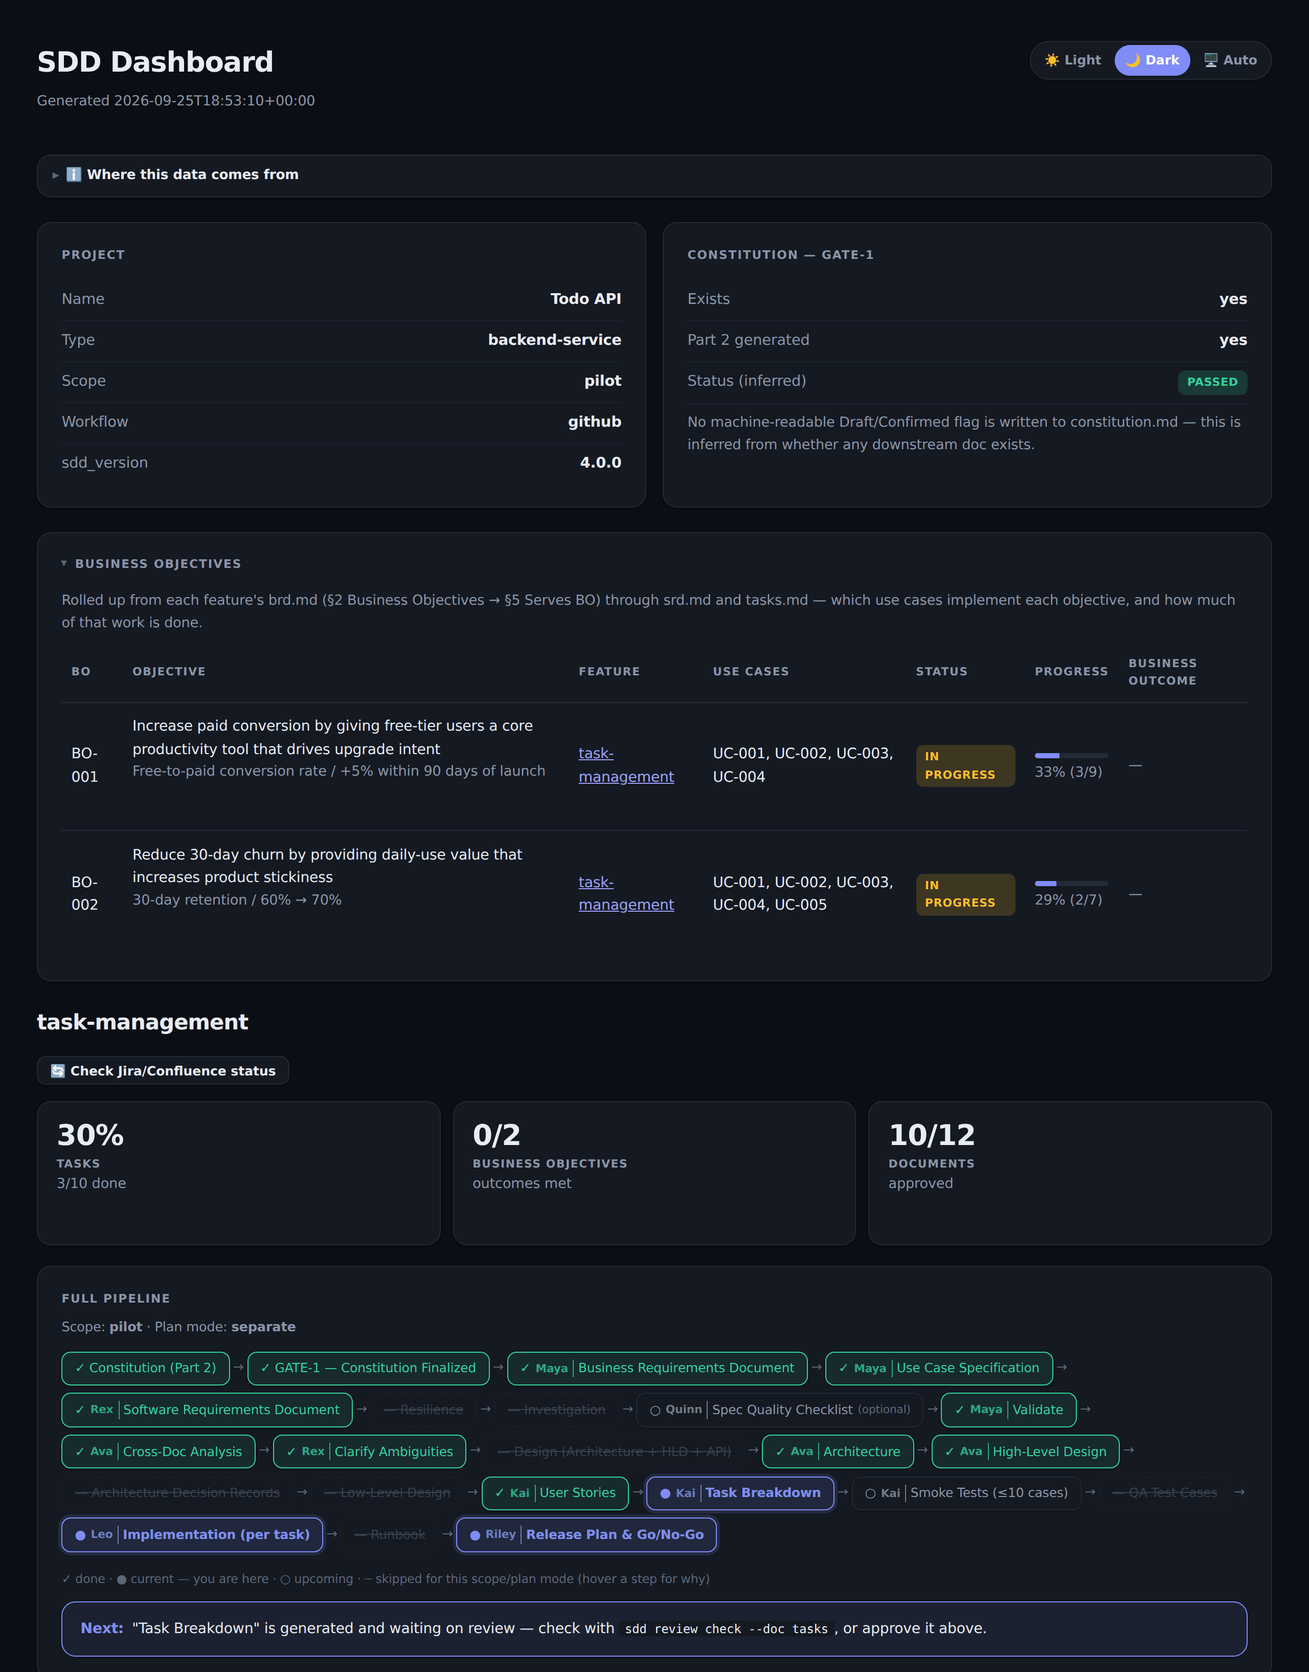
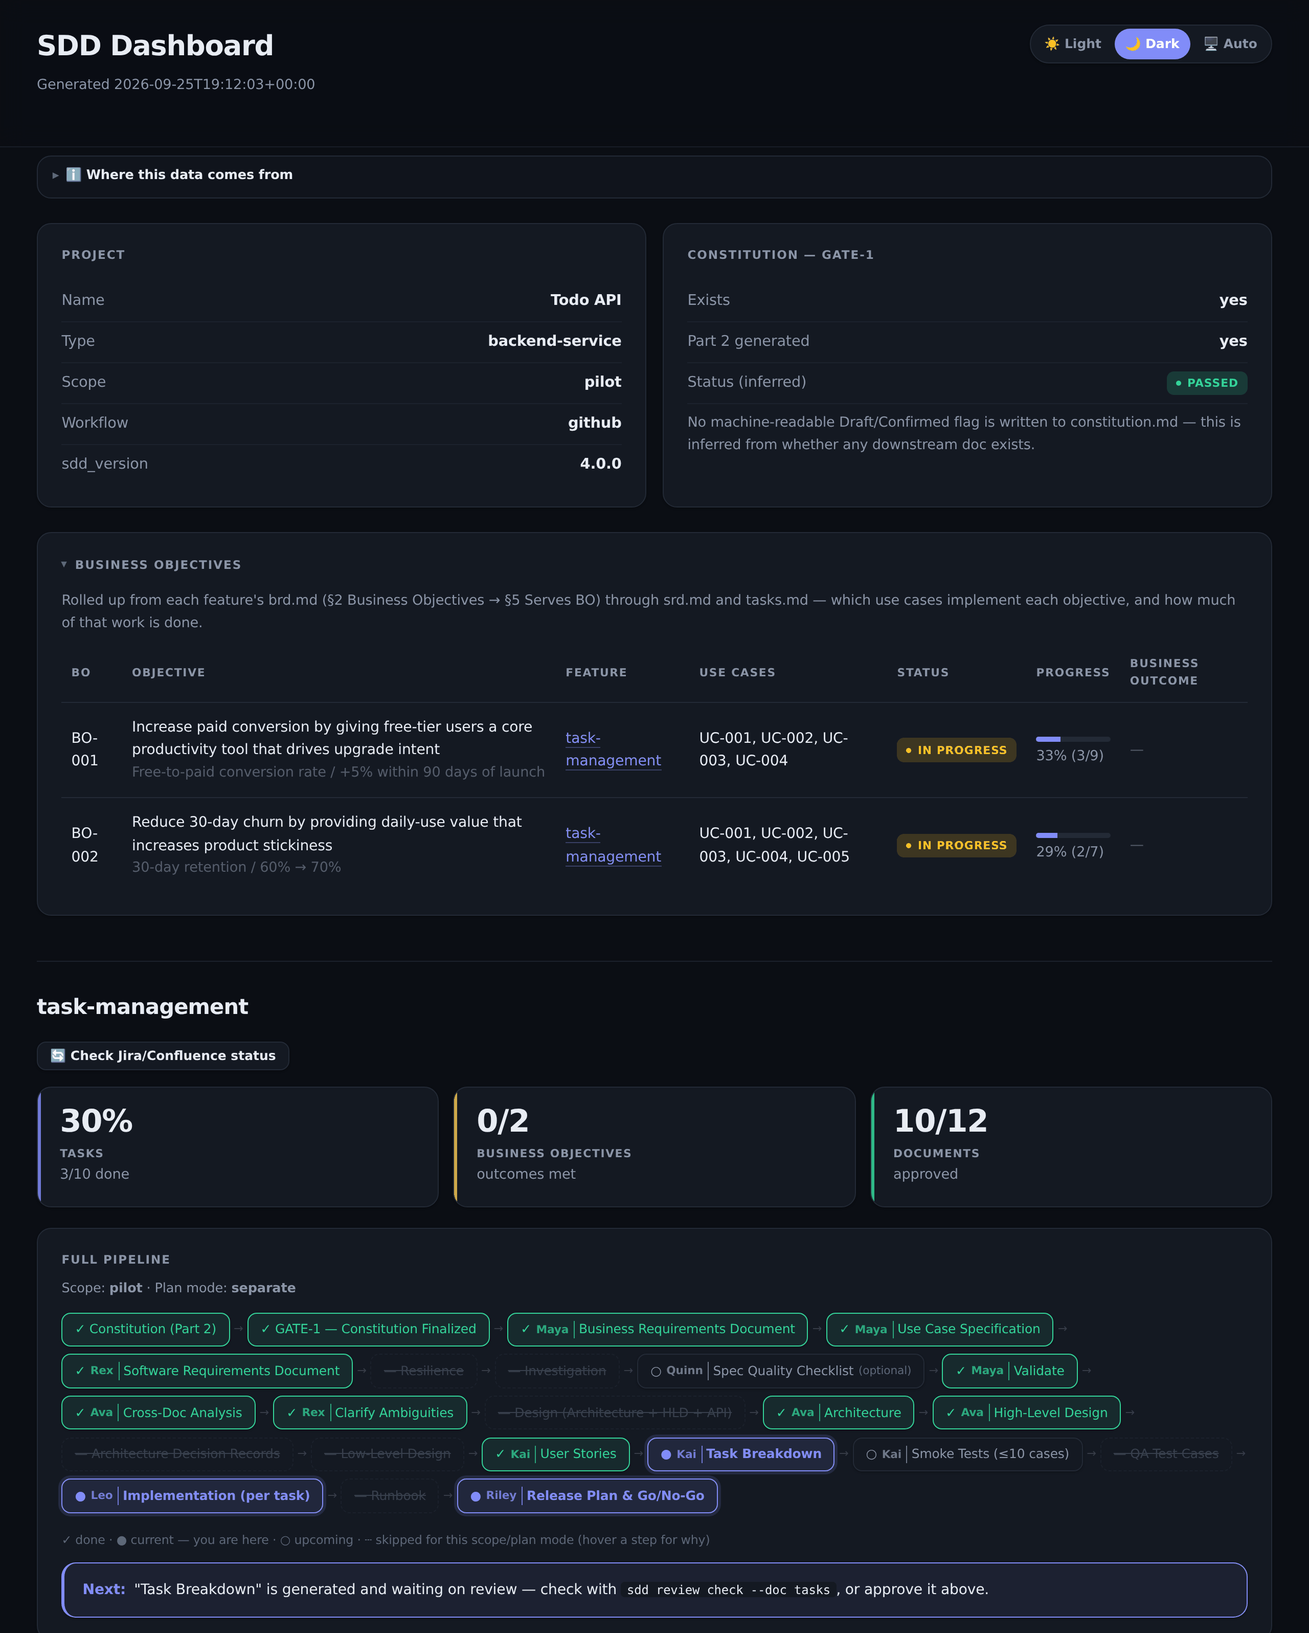
fix(dashboard): stat-tile dead space, reduced-motion, focus rings (4.1.1)
A second pass over the dashboard after 4.1.0. Measuring it rather than
looking at it turned up two defects in what 4.1.0 shipped.

Stat tiles were 48% empty: 141px tall holding 73px of content. `.sub` is
the page subtitle once (#generated-at in page.html) and a small caption
33 times in app.js, and 4.1.0 raised its bottom margin to 2rem, which
then applied inside every tile. Several app.js call sites already worked
around it with an inline style="margin:...", which was the tell that the
margin sat on the wrong element. It now lives on the page subtitle alone
and tiles measure 118px.

4.1.0 also introduced 7 transitions and 2 hover lifts with no
prefers-reduced-motion guard, and restyled every button while leaving
them on the browser default focus outline, which is near invisible
against a card. Both are accessibility defects in what 4.1.0 shipped, so
this adds a reduced-motion block covering every animation and transform,
and :focus-visible rings on all 7 interactive selectors.

Status badges were wrapping: "In Progress" ran to two lines at 41px
against 24px for single-word badges, leaving the objective rows uneven.

Polish: a colour rail per stat tile so the row reads as three measures
rather than three grey boxes; a leading status dot on badges; a sticky
topbar with backdrop blur behind an @supports guard; a rule separating
the project-wide cards from the per-feature block; quieter pipeline
arrows; a lighter info box; a heavier left edge on the next-action
[…]

diff --git a/cli-python/sdd/commands/dashboard_static/style.css b/cli-python/sdd/commands/dashboard_static/style.css
@@ -62,6 +62,37 @@
   }
   * { box-sizing: border-box; }
   html { scroll-behavior: smooth; }
+  /* This stylesheet animates card elevation and lifts buttons, pipeline
+     steps and feature tabs on hover. Motion sensitivity is a real
+     accessibility setting and a dashboard that moves under the cursor is
+     exactly what it exists for, so every one of those is disabled when it
+     is set. Keep this in step with any new transition or transform. */
+  @media (prefers-reduced-motion: reduce) {
+    *, *::before, *::after {
+      animation-duration: .001ms !important;
+      animation-iteration-count: 1 !important;
+      transition-duration: .001ms !important;
+      scroll-behavior: auto !important;
+    }
+    .link-btn:hover:not(:disabled),
+    .pstep:hover,
+    .feature-tab:hover { transform: none; }
+  }
+  /* :focus-visible, not :focus -- a keyboard user gets a ring, a mouse
+     click does not. Every interactive control here is a button, a
+     summary or an anchor; the comment inputs carry their own ring where
+     they replace the UA outline further down. */
+  .link-btn:focus-visible,
+  .tab-btn:focus-visible,
+  .feature-tab:focus-visible,
+  .theme-toggle button:focus-visible,
+  .info-box summary:focus-visible,
+  .card.collapsible > summary:focus-visible,
+  a:focus-visible {
+    outline: 2px solid var(--accent);
+    outline-offset: 2px;
+    border-radius: var(--radius-sm);
+  }
   body {
     margin: 0 auto; padding: 2.5rem 2.25rem 0; max-width: 1440px;
     background: var(--bg); color: var(--fg);
@@ -78,7 +109,19 @@
     font-size: .72rem; margin: 0 0 1rem; color: var(--muted); font-weight: 700;
     text-transform: uppercase; letter-spacing: .085em;
   }
-  .sub { color: var(--muted); font-size: .85rem; margin-bottom: 2rem; }
+  /* .sub is overloaded: it is the page subtitle exactly once
+     (#generated-at in page.html) and a small caption 33 times in app.js.
+     A page-level bottom margin only makes sense for the first -- inside a
+     stat tile it was adding 32px of dead space to every tile (measured
+     141px tall against 73px of content, i.e. 48% empty), and several
+     app.js call sites already worked around it with an inline
+     style="margin:...". So the margin lives on the page subtitle, not on
+     the shared class. Inline overrides in app.js still win either way. */
+  .sub { color: var(--muted); font-size: .85rem; }
+  #generated-at { margin-bottom: 2rem; }
+  /* A cell holding nothing but a placeholder em dash should not compete
+     with real content beside it. */
+  .sub:only-child { opacity: .55; }
   .grid { display: grid; grid-template-columns: repeat(auto-fit, minmax(260px, 1fr)); gap: 1rem; margin-bottom: 1.5rem; }
   .feature-grid { grid-template-columns: repeat(auto-fit, minmax(320px, 1fr)); }
   .feature-grid .card-wide { grid-column: 1 / -1; }
@@ -104,9 +147,21 @@
      amber) to plain gray. Hit the Constitution card's gate-1 badge and
      the Token Usage "Source mix" badges. */
   .kv > span:first-child { color: var(--muted); font-weight: 500; }
+  /* nowrap: "In Progress" was wrapping to two lines, making it 41px tall
+     against 24px for every single-word badge, which left the Business
+     Objectives rows visibly uneven. Relaxed again below 720px, where
+     horizontal room matters more than row rhythm. */
   .badge {
     display: inline-block; padding: .2rem .55rem; border-radius: 7px;
-    font-size: .68rem; font-weight: 700; text-transform: uppercase; letter-spacing: .045em;
+    font-size: .68rem; font-weight: 700; text-transform: uppercase;
+    letter-spacing: .045em; white-space: nowrap;
+  }
+  /* currentColor, so the dot picks up whichever .b-* class is applied and
+     reads as a status light rather than more label text. */
+  .badge::before {
+    content: ""; display: inline-block; width: 5px; height: 5px;
+    border-radius: 50%; background: currentColor;
+    margin-right: .4rem; vertical-align: .08em;
   }
   .b-ok   { background: color-mix(in srgb, var(--ok) 18%, transparent); color: var(--ok); }
   .b-warn { background: color-mix(in srgb, var(--warn) 18%, transparent); color: var(--warn); }
@@ -123,7 +178,14 @@
   tbody tr:hover { background: color-mix(in srgb, var(--accent) 4%, transparent); }
   tr:last-child td { border-bottom: none; }
   .feature-block { margin-bottom: 2rem; }
-  .feature-title { font-size: 1.3rem; font-weight: 700; letter-spacing: -.02em; margin-bottom: 1rem; display: flex; align-items: center; gap: .75rem; flex-wrap: wrap; }
+  /* The rule and the top margin separate the project-wide cards above
+     from the per-feature block below, which previously ran together. */
+  .feature-title {
+    font-size: 1.3rem; font-weight: 700; letter-spacing: -.02em;
+    margin: 2.75rem 0 1rem; padding-top: 1.75rem;
+    border-top: 1px solid color-mix(in srgb, var(--border) 70%, transparent);
+    display: flex; align-items: center; gap: .75rem; flex-wrap: wrap;
+  }
   .bar { display: flex; height: 6px; border-radius: 99px; overflow: hidden; background: var(--border); margin: .6rem 0 .9rem; }
   .bar span { display: block; }
   .empty { color: var(--muted); font-style: italic; padding: 1rem 0; }
@@ -148,6 +210,17 @@
   .pill-bad  { color: var(--bad); border-color: var(--bad); }
   .pill-ok   { color: var(--ok); border-color: var(--ok); }
   .links-cell { display: flex; flex-wrap: wrap; align-items: center; gap: .35rem; }
+  /* Table links were plain browser-underlined text. A faint rule that
+     firms up on hover reads better against dense rows. Scoped to table
+     cells so it never touches .pill (which draws its own border) or the
+     footer links. */
+  td a {
+    color: var(--accent); text-decoration: none;
+    border-bottom: 1px solid color-mix(in srgb, var(--accent) 35%, transparent);
+    transition: border-color .14s ease;
+  }
+  td a:hover { border-bottom-color: var(--accent); }
+  td a.pill { border-bottom: 1px solid; }
   .doc-detail-row td { padding: 0; border-bottom: 1px solid var(--border); }
   .doc-detail {
     margin: 0; font-size: .8rem; white-space: pre-wrap;
@@ -199,12 +272,17 @@
     font-size: .68rem; font-weight: 700; opacity: .75; border-right: 1px solid currentColor;
     padding-right: .3rem; margin-right: -.05rem;
   }
-  .pipeline-arrow { color: var(--dim); font-size: .8rem; }
+  /* Quieter arrows: with 23 steps on a pilot-scope project the
+     connectors were competing with the steps themselves. */
+  .pipeline-arrow { color: var(--dim); font-size: .7rem; opacity: .45; margin: 0 .05rem; }
   .pipeline-legend { color: var(--dim); font-size: .74rem; margin-bottom: .75rem; }
+  /* The one element telling you what to do next -- the heavier left edge
+     marks it as the page's call to action. */
   .next-action-box {
     display: flex; flex-direction: column; gap: .35rem; padding: .9rem 1.1rem;
     border-radius: var(--radius); background: color-mix(in srgb, var(--accent) 7%, var(--card));
-    border: 1px solid var(--accent); font-size: .88rem; box-shadow: var(--shadow-sm);
+    border: 1px solid var(--accent); border-left-width: 3px;
+    font-size: .88rem; box-shadow: var(--shadow-sm);
   }
   .next-action-main { display: flex; gap: .5rem; align-items: baseline; }
   .next-action-main strong { color: var(--accent); white-space: nowrap; }
@@ -220,7 +298,28 @@
   .doc-approval-line { font-size: .74rem; color: var(--muted); margin-top: .25rem; }
   .doc-approval-pending strong { color: var(--fg); }
   .doc-timing-line { font-size: .74rem; color: var(--muted); margin-top: .1rem; }
-  .topbar { display: flex; justify-content: space-between; align-items: flex-start; gap: 1rem; flex-wrap: wrap; }
+  /* Sticky: the page runs long and the theme toggle is worth keeping in
+     reach. The negative margin cancels body's side padding so the
+     background runs edge to edge -- the two MUST move together, which is
+     why the narrow-width block at the foot of this file restates both.
+     A topbar still pulling -2.25rem while body padding drops to 1rem
+     hangs off each edge and pushes the document wider than the viewport. */
+  .topbar {
+    display: flex; justify-content: space-between; align-items: flex-start;
+    gap: 1rem; flex-wrap: wrap;
+    position: sticky; top: 0; z-index: 20;
+    margin: -2.5rem -2.25rem 0; padding: 1.5rem 2.25rem 1rem;
+    background: var(--bg);
+    border-bottom: 1px solid color-mix(in srgb, var(--border) 60%, transparent);
+  }
+  /* Guarded: without backdrop-filter the translucent background would
+     just look washed out, so only opt in where it actually blurs. */
+  @supports (backdrop-filter: blur(8px)) {
+    .topbar {
+      background: color-mix(in srgb, var(--bg) 82%, transparent);
+      backdrop-filter: blur(12px) saturate(140%);
+    }
+  }
   .theme-toggle {
     display: inline-flex; gap: .15rem; background: var(--card); border: 1px solid var(--border);
     border-radius: 999px; padding: .2rem; flex-shrink: 0; box-shadow: var(--shadow-sm);
@@ -232,13 +331,16 @@
   }
   .theme-toggle button:hover { color: var(--fg); }
   .theme-toggle button.active { background: var(--accent); color: #fff; }
+  /* Collapsed most of the time, so it should not carry a content card's
+     weight -- no shadow, and a background that sits between the page and
+     a real card. */
   .info-box {
     margin: .5rem 0 1.5rem; border: 1px solid var(--border); border-radius: var(--radius);
-    background: var(--card); font-size: .82rem; color: var(--muted);
-    box-shadow: var(--shadow-sm);
+    background: color-mix(in srgb, var(--card) 60%, transparent);
+    font-size: .82rem; color: var(--muted);
   }
   .info-box summary {
-    cursor: pointer; padding: .6rem .9rem; font-weight: 600; color: var(--fg);
+    cursor: pointer; padding: .6rem .9rem; font-size: .8rem; font-weight: 600; color: var(--fg);
     list-style: none; display: flex; align-items: center; gap: .4rem;
   }
   .info-box summary::-webkit-details-marker { display: none; }
@@ -286,16 +388,29 @@
   /* Stat-tile widget row — shown at the top of the active feature's block
      (renderFeatureStats()), the same three numbers that used to require
      scanning three separate cards further down the page. */
-  .stat-row { display: flex; gap: .75rem; flex-wrap: wrap; margin-bottom: 1.25rem; }
+  .stat-row { display: flex; gap: .9rem; flex-wrap: wrap; align-items: stretch; margin-bottom: 1.25rem; }
   .stat-tile {
+    position: relative; overflow: hidden;
     flex: 1; min-width: 140px; background: var(--card); border: 1px solid var(--border);
-    border-radius: var(--radius); padding: 1rem 1.15rem; box-shadow: var(--shadow-sm);
+    border-radius: var(--radius); padding: 1.1rem 1.15rem 1.15rem 1.35rem;
+    box-shadow: var(--shadow-sm);
   }
+  /* A colour rail per tile, so the row reads as three distinct measures
+     rather than three identical grey boxes. Positional, not semantic --
+     renderFeatureStats() always emits these three in this order
+     (tasks, business objectives, documents). */
+  .stat-tile::before {
+    content: ""; position: absolute; left: 0; top: 0; bottom: 0; width: 3px;
+    background: var(--accent); opacity: .85;
+  }
+  .stat-tile:nth-child(2)::before { background: var(--warn); }
+  .stat-tile:nth-child(3)::before { background: var(--ok); }
   .stat-value {
-    font-size: 1.75rem; font-weight: 700; line-height: 1.2;
+    font-size: 1.9rem; font-weight: 700; line-height: 1.1;
     letter-spacing: -.02em; font-variant-numeric: tabular-nums;
   }
-  .stat-label { font-size: .68rem; color: var(--muted); text-transform: uppercase; letter-spacing: .075em; font-weight: 600; margin-top: .15rem; }
+  .stat-label { font-size: .68rem; color: var(--muted); text-transform: uppercase; letter-spacing: .075em; font-weight: 600; margin-top: .3rem; }
+  .stat-tile .sub { margin-top: .15rem; }
 
   /* Thin inline progress bar for a single Business Objective row's Progress
      cell — same visual language as .bar (the Tasks card's segmented bar)
@@ -355,6 +470,20 @@
     .card { padding: 1rem 1.05rem; }
     th { padding: .5rem .35rem; font-size: .64rem; letter-spacing: .05em; }
     td { padding: .55rem .35rem; }
-    .stat-value { font-size: 1.5rem; }
+    .stat-value { font-size: 1.6rem; }
+    .stat-tile { padding: .9rem 1rem .9rem 1.15rem; }
     .pstep { padding: .3rem .6rem; font-size: .74rem; }
+    .feature-title { margin-top: 2rem; padding-top: 1.25rem; }
+
+    /* Must track body's padding above -- see the .topbar rule. A topbar
+       still cancelling 2.25rem while body only has 1rem hangs 1.25rem
+       off each edge: measured as a 620px document at a 600px viewport
+       before this was added, where nothing overflowed before. */
+    .topbar { margin: -1.5rem -1rem 0; padding: 1rem 1rem .75rem; }
+
+    /* The nowrap badge and its dot keep table rows even on a desktop but
+       both cost width, and at 390px the tables are already the tightest
+       thing here. Measured 599px with them on against 569px without. */
+    .badge { white-space: normal; }
+    .badge::before { display: none; }
   }

diff --git a/cli-python/sdd/commands/upgrade.py b/cli-python/sdd/commands/upgrade.py
@@ -8250,6 +8250,55 @@ MIGRATIONS: list[Migration] = [
             "themes; no horizontal overflow at 600/768/1024/1440/1920px",
         ],
     },
+    {
+        "from": "4.1.0",
+        "to": "4.1.1",
+        "description": "Dashboard follow-up: fixes 4.1.0's stat-tile dead space, adds the reduced-motion and focus-visible handling 4.1.0's animations needed, plus visual polish",
+        "notes": [
+            "Stat tiles were 141px tall holding 73px of content, i.e. 48% "
+            "empty. Cause: .sub is the page subtitle once (#generated-at "
+            "in page.html) and a small caption 33 times in app.js, and "
+            "4.1.0 raised its bottom margin to 2rem, which then applied "
+            "inside every tile. Several app.js call sites already worked "
+            "around it with an inline style='margin:...', which was the "
+            "tell that the margin sat on the wrong element. It now lives "
+            "on #generated-at alone; tiles measure 118px",
+            "4.1.0 introduced 7 transitions and 2 hover lifts with no "
+            "prefers-reduced-motion guard, and restyled every button "
+            "while leaving them on the browser default focus outline "
+            "(near-invisible against a card). Both are accessibility "
+            "defects in what 4.1.0 shipped, so this release adds a "
+            "reduced-motion block covering every animation and transform, "
+            "and :focus-visible rings on all 7 interactive selectors",
+            "Polish: a colour rail per stat tile so the row reads as "
+            "three measures rather than three grey boxes; nowrap status "
+            "badges with a leading status dot (In Progress was wrapping "
+            "to 41px against 24px for single-word badges, leaving the "
+            "Business Objectives rows uneven); a sticky topbar with "
+            "backdrop blur behind an @supports guard; a rule separating "
+            "the project-wide cards from the per-feature block; quieter "
+            "pipeline arrows; a lighter info box; a heavier left edge on "
+            "the next-action callout; faded placeholder cells",
+            "The sticky topbar cancels body's side padding with a "
+            "negative margin, and the two must move together. The first "
+            "cut left the margin hardcoded while the existing narrow-"
+            "width block drops body padding, which produced a 620px "
+            "document at a 600px viewport where nothing had overflowed. "
+            "The narrow-width block now restates both, and also relaxes "
+            "the nowrap badge and its dot, which cost 30px at 390px. Net "
+            "result is identical to 4.1.0 at every width measured",
+            "PATCH, not MINOR: every substantive item repairs something "
+            "4.1.0 shipped rather than adding capability -- no new "
+            "command, template, manifest field or CLI flag",
+            "Verified: cli-python pytest 1190/1190; Light, Dark and Auto "
+            "(Auto against both a light and a dark OS preference); all 16 "
+            "probed components at non-zero size in both themes; 8 of 8 "
+            "tabbed controls show a focus ring; transition-duration "
+            "collapses under prefers-reduced-motion:reduce; no horizontal "
+            "overflow at 600/768/1024/1440/1920px and 390px unchanged "
+            "from 4.1.0 at 569px",
+        ],
+    },
 ]
 
 

diff --git a/cli-python/sdd/__init__.py b/cli-python/sdd/__init__.py
@@ -1,1 +1,1 @@
-__version__ = "4.1.0"
+__version__ = "4.1.1"

diff --git a/CHANGELOG.md b/CHANGELOG.md
@@ -4,6 +4,63 @@ All notable changes to the SDD Framework are documented here.
 
 ---
 
+## [4.1.1] — 2026-09-25 (Dashboard follow-up: fixes and polish)
+
+A second pass over the dashboard after 4.1.0. Measuring it rather than
+just looking at it turned up two defects in what 4.1.0 shipped, both
+fixed here, along with a round of polish.
+
+### Fixed
+
+- **Stat tiles were 48% empty** — 141px tall holding 73px of content.
+  `.sub` is the page subtitle once (`#generated-at`) and a small caption
+  33 times in `app.js`, and 4.1.0 raised its bottom margin to 2rem, which
+  then applied inside every tile. Several `app.js` call sites already
+  worked around it with an inline `style="margin:…"`, which was the tell
+  that the margin sat on the wrong element. It now lives on the page
+  subtitle alone and tiles measure 118px.
+- **No `prefers-reduced-motion` handling.** 4.1.0 introduced 7
+  transitions and 2 hover lifts with no guard. Every one is now disabled
+  when the setting is on.
+- **No focus styles.** 4.1.0 restyled every button but left them on the
+  browser default outline, which is near invisible against a card.
+  `:focus-visible` rings added on all 7 interactive selectors, so a
+  keyboard user sees them and a mouse click does not.
+- **Status badges wrapped.** "In Progress" ran to two lines at 41px
+  against 24px for every single-word badge, leaving the Business
+  Objectives rows uneven.
+
+### Changed
+
+- A colour rail per stat tile, so the row reads as three distinct
+  measures rather than three grey boxes.
+- Status badges carry a leading dot in the status colour.
+- Sticky topbar with backdrop blur, behind an `@supports` guard so
+  browsers without it get a solid background instead of a washed-out one.
+- A rule separating the project-wide cards from the per-feature block,
+  which previously ran together.
+- Quieter pipeline arrows, a lighter info box, a heavier left edge on the
+  next-action callout, underlined table links, and faded placeholder
+  cells.
+
+### Verified
+
+- `cli-python` pytest 1190/1190.
+- Light, Dark and Auto, with Auto checked against both a light and a dark
+  OS preference.
+- All 16 probed components at non-zero size in both themes; 8 of 8 tabbed
+  controls show a focus ring; transition duration collapses under
+  `prefers-reduced-motion: reduce`.
+- No horizontal overflow at 600, 768, 1024, 1440 or 1920px. 390px is
+  unchanged from 4.1.0 at 569px.
+
+  A first cut of the sticky topbar left its negative margin hardcoded
+  while the narrow-width block drops body padding, producing a 620px
+  document at a 600px viewport where nothing had overflowed. Caught by
+  the width sweep and fixed before this shipped.
+
+---
+
 ## [4.1.0] — 2026-09-25 (Dashboard visual refresh)
 
 `sdd dashboard` is the most demonstrable thing this project has — the
